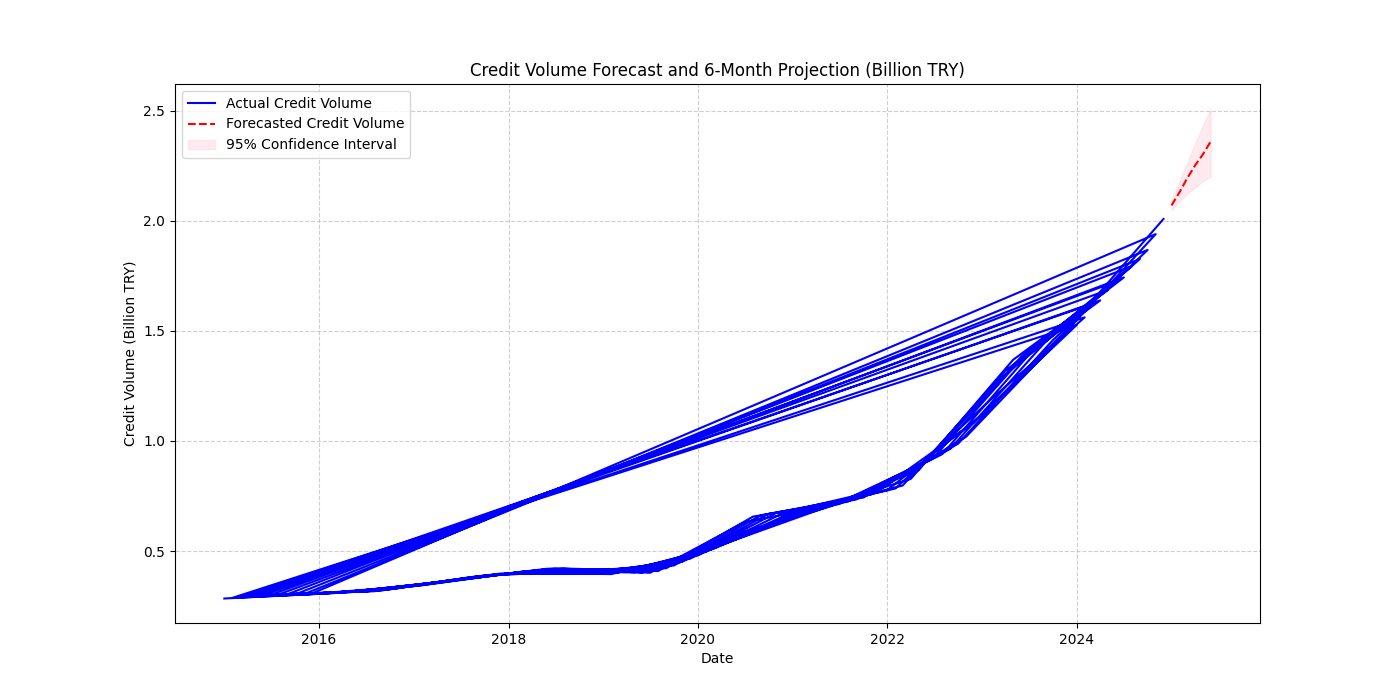
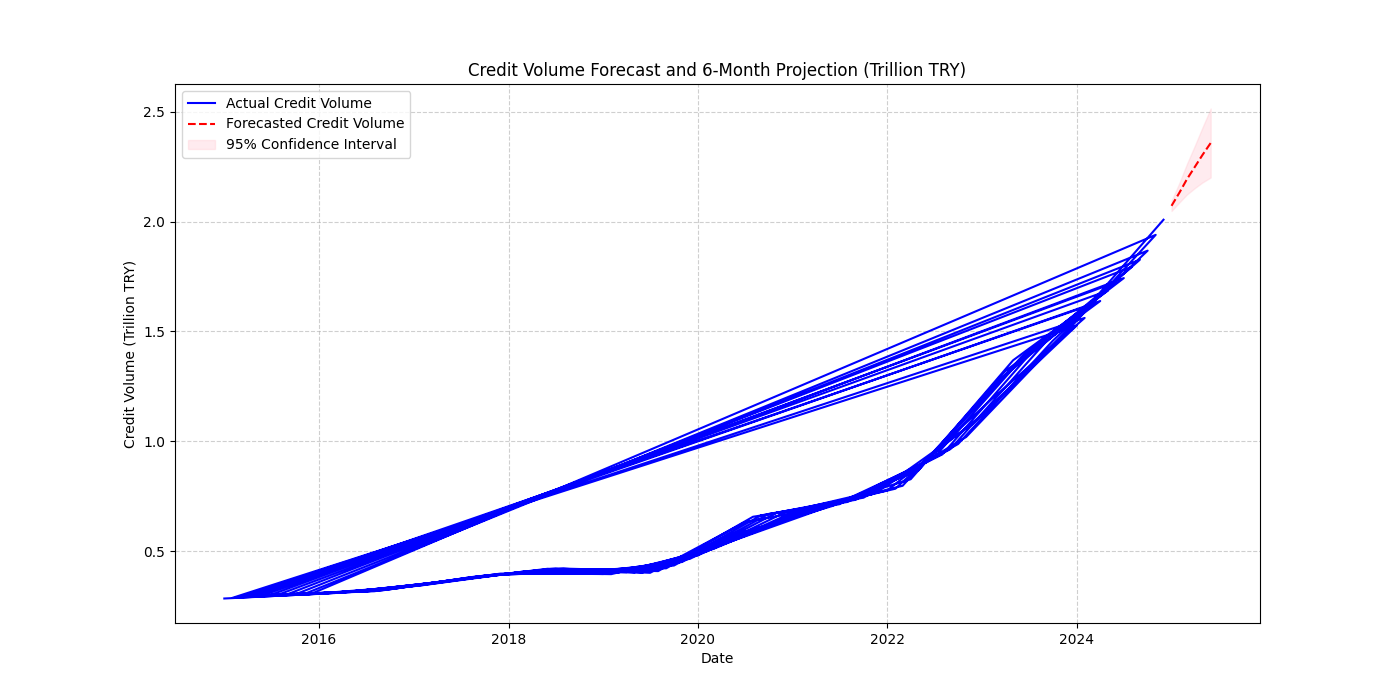
Fix/Update app.py: Corrected unit scaling and added diagnostic plots

diff --git a/analiz_baslangic.py b/analiz_baslangic.py
@@ -6,6 +6,7 @@ import os
 from io import StringIO 
 import re 
 import matplotlib
+# CRITICAL FIX: Set backend to 'Agg' to prevent Tcl/Tk error during plotting
 matplotlib.use('Agg')
 import matplotlib.pyplot as plt
 from statsmodels.graphics.tsaplots import plot_acf, plot_pacf 
@@ -15,13 +16,18 @@ from statsmodels.tsa.arima.model import ARIMA
 DOSYA_ADI = "manuel_veri.csv" 
 DB_ADI = "bankacilik_verileri.db"
 TABLO_ADI = "makro_finans_tablosu"
+
+# KRİTİK DÜZELTME: GRAFİK ÇIKTISI TRİLYON TL ETİKETİYLE DEĞİŞTİRİLDİ
+TAHMIN_GRAFIK_ADI = "credit_volume_forecast.png" 
+SCALING_FACTOR = 1_000_000_000 # 1 Billion TRY (Trilyon TL ölçeği için)
+
+# Sütun isimlerini manuel olarak belirle
 MANUEL_SUTUNLAR = ['Tarih', 'Kredi_Hacmi', 'Faiz_Orani', 'Tuketici_Guveni', 'USD_TRY', 'TUFE']
-SCALING_FACTOR = 1_000_000_000 # 1 Billion TRY
 
 # --- VERİ TEMİZLİK FONKSİYONLARI ---
-# (Önceki başarılı kod blokları)
 
 def on_isleme_yap(raw_data):
+    """Pre-processes raw data by fixing line breaks, quotes, and inconsistent separators."""
     clean_data = re.sub(r';\s*[\r\n]+', ';', raw_data)
     clean_data = re.sub(r'"(\d+);\s*(\d+\.?\d*)"', r'\1\2', clean_data)
     clean_data = re.sub(r'"(\d+),(\d+),(\d+\.?\d*)"', r'\1\2\3', clean_data) 
@@ -30,18 +36,21 @@ def on_isleme_yap(raw_data):
     return clean_data
 
 def veriyi_yukle_manuel_garantili_cozum():
+    """Tries to load CSV with multiple delimiters and applies final cleaning."""
     if not os.path.exists(DOSYA_ADI):
         print(f"ERROR: '{DOSYA_ADI}' file not found.")
         return pd.DataFrame()
     
     try:
         with open(DOSYA_ADI, 'r', encoding='latin-1') as f: raw_data = f.read()
+
         clean_data = on_isleme_yap(raw_data)
         veri_df = pd.DataFrame()
         
         def safe_read(sep_char):
             return pd.read_csv(StringIO(clean_data), sep=sep_char, engine='python', 
                                  skiprows=1, header=None, names=MANUEL_SUTUNLAR, skipinitialspace=True)
+
         # Delimiter attempts
         try:
             temp_df = safe_read(';')
@@ -62,6 +71,7 @@ def veriyi_yukle_manuel_garantili_cozum():
         tarih_sutunu_adi = 'Tarih'
         veri_df.set_index(tarih_sutunu_adi, inplace=True)
         veri_df.index.name = 'Date' 
+        
         veri_df = veri_df.sort_index()
         veri_df.index = pd.to_datetime(veri_df.index, format='%d.%m.%Y', errors='coerce') 
         veri_df = veri_df[veri_df.index.notna()] 
@@ -73,7 +83,10 @@ def veriyi_yukle_manuel_garantili_cozum():
             temiz_seri = temiz_seri.str.replace(',', '.', regex=False)
             veri_df[col] = pd.to_numeric(temiz_seri, errors='coerce')
             
-        veri_df = veri_df.dropna().astype(float)
+        veri_df = veri_df.dropna()
+        veri_df = veri_df.astype(float)
+        
+        print("Data cleaning and preparation complete.")
         return veri_df
     
     except Exception: return pd.DataFrame()
@@ -85,36 +98,7 @@ def veriyi_kaydet(df):
     conn.close()
     print(f"Data successfully saved to {DB_ADI} database.")
 
-# --- YENİ EKLENEN TANI VERİSİ KAYIT FONKSİYONU ---
-def kayit_diagnostik_verisi(model_fit, veri_df):
-    """Modelin geçmiş tahminlerini (Fitted) ve hatalarını (Residuals) hesaplar ve veritabanına kaydeder."""
-    
-    # Modelin eğitildiği serinin başlangıç ve bitiş tarihini kullan
-    start_date = veri_df.index[0]
-    end_date = veri_df.index[-1]
-    
-    # In-sample (tarihsel) tahminleri hesapla
-    fitted_values = model_fit.predict(start=start_date, end=end_date, dynamic=False)
-    residuals = model_fit.resid
-
-    # Verileri birleştir ve Milyar TL'ye ölçekle
-    diagnostic_df = pd.DataFrame({
-        'Actual': veri_df['Kredi_Hacmi'] / SCALING_FACTOR,
-        'Fitted': fitted_values / SCALING_FACTOR,
-        'Residuals': residuals / SCALING_FACTOR # Hatalar da ölçeklenir
-    }).dropna()
-    
-    # Yeni tabloya kaydet
-    try:
-        conn = sqlite3.connect(DB_ADI)
-        diagnostic_df.to_sql('model_diagnostics', conn, if_exists='replace', index=True)
-        conn.close()
-        print("Model diagnostics (Actual, Fitted, Residuals) successfully saved to 'model_diagnostics' table.")
-    except Exception as e:
-        print(f"ERROR saving diagnostics: {e}")
-
 # --- ANALİZ VE MODELLEME FONKSİYONLARI ---
-# (ADF ve ACF/PACF fonksiyonları aynı kalır)
 
 def adf_testi_yap(seri, isim):
     """Performs the Augmented Dickey-Fuller (ADF) test."""
@@ -126,7 +110,9 @@ def adf_testi_yap(seri, isim):
     print(f"\n--- ADF Test Result for {isim} Series ---")
     sonuc = adfuller(seri)
     p_degeri = sonuc[1]
+    
     print(f"P-value: {p_degeri:.4f}")
+    
     if p_degeri <= 0.05:
         print("Conclusion: Series is STATIONARY. 🎉")
     else:
@@ -134,80 +120,97 @@ def adf_testi_yap(seri, isim):
 
 def acf_pacf_ciz(seri, baslik):
     """Plots ACF and PACF graphs and saves them to a file."""
+    
     fig, axes = plt.subplots(2, 1, figsize=(12, 8))
     fig.suptitle(baslik, fontsize=16)
+
     plot_acf(seri, lags=20, ax=axes[0], title='Autocorrelation Function (ACF)') 
     axes[0].grid(True, linestyle='--', alpha=0.7)
+
     plot_pacf(seri, lags=20, ax=axes[1], title='Partial Autocorrelation Function (PACF)', method='ywm') 
     axes[1].grid(True, linestyle='--', alpha=0.7)
+
     plt.tight_layout(rect=[0, 0, 1, 0.96]) 
     plt.savefig('acf_pacf_analysis.png')
     plt.close(fig)
     print("ACF/PACF graph saved to 'acf_pacf_analysis.png'.")
 
 def model_egit_ve_degerlendir(veri_df):
-    """ARIMA(1, 1, 1) modelini eğitir ve özetini döndürür."""
+    """Trains the ARIMA(1, 1, 1) model and returns its fit object."""
+    
     ts = veri_df['Kredi_Hacmi']
     ts = ts.sort_index()
     ts.index = pd.to_datetime(ts.index)
     ts = ts.asfreq('MS') 
     
-    model = ARIMA(ts, order=(1, 1, 1), enforce_stationarity=False, enforce_invertibility=False)
+    model = ARIMA(ts, order=(1, 1, 1), 
+                  enforce_stationarity=False, 
+                  enforce_invertibility=False)
+                  
     model_fit = model.fit()
-    
-    print("\n" + "="*50)
-    print("ARIMA(1, 1, 1) MODEL SUMMARY")
-    print("="*50)
-    print(model_fit.summary())
-    
     return model_fit
+
+def kayit_diagnostik_verisi(model_fit, veri_df):
+    """Modelin geçmiş tahminlerini (Fitted) ve hatalarını (Residuals) hesaplar ve veritabanına kaydeder."""
+    start_date = veri_df.index[0]
+    end_date = veri_df.index[-1]
+    
+    fitted_values = model_fit.predict(start=start_date, end=end_date, dynamic=False)
+    residuals = model_fit.resid
+
+    diagnostic_df = pd.DataFrame({
+        'Actual': veri_df['Kredi_Hacmi'] / SCALING_FACTOR,
+        'Fitted': fitted_values / SCALING_FACTOR,
+        'Residuals': residuals / SCALING_FACTOR
+    }).dropna()
+    
+    try:
+        conn = sqlite3.connect(DB_ADI)
+        diagnostic_df.to_sql('model_diagnostics', conn, if_exists='replace', index=True)
+        conn.close()
+        print("Model diagnostics (Actual, Fitted, Residuals) successfully saved to 'model_diagnostics' table.")
+    except Exception as e:
+        print(f"ERROR saving diagnostics: {e}")
 
 def tahmin_yap_ve_ciz(model_fit, veri_df, adim_sayisi=6):
     """Performs the 6-month forecast, generates the output table, and saves the forecast plot."""
-    # Forecast ve plotting kodları (önceki başarılı adımlardan)
+    
     forecast_results = model_fit.get_forecast(steps=adim_sayisi)
+    
     forecast_mean = forecast_results.predicted_mean
     confidence_intervals = forecast_results.conf_int()
     
+    # Tahmin tablosunu oluşturma (Konsol için)
     tahmin_df = pd.DataFrame({
-        'Forecasted Volume': forecast_mean, 
-        'Lower Bound (95%)': confidence_intervals['lower Kredi_Hacmi'], 
-        'Upper Bound (95%)': confidence_intervals['upper Kredi_Hacmi'] 
+        'Forecasted Volume': forecast_mean,
+        'Lower Bound (95%)': confidence_intervals['lower Kredi_Hacmi'],
+        'Upper Bound (95%)': confidence_intervals['upper Kredi_Hacmi']
     })
     
-    tahmin_df = tahmin_df.round(0).astype(int)
-    tahmin_df_billion = (tahmin_df / SCALING_FACTOR).round(2)
-    tahmin_df_billion.index.name = "Forecast Date"
-
-    # Konsol Çıktısı
-    print("\n" + "="*70)
-    print(f"ARIMA(1, 1, 1) - {adim_sayisi}-MONTH CREDIT VOLUME FORECAST (Billion TRY)")
-    print("="*70)
-    print(tahmin_df_billion.to_string())
-
-    # Grafik Çizimi (KDS Çıktı Bileşeni)
+    # Grafik Çizimi (Trilyon TL ölçeğinde)
     plt.figure(figsize=(14, 7))
-    historic_data_billion = veri_df['Kredi_Hacmi'] / SCALING_FACTOR
+    historic_data_trillion = veri_df['Kredi_Hacmi'] / SCALING_FACTOR
     
-    plt.plot(historic_data_billion, label='Actual Credit Volume', color='blue')
-    plt.plot(tahmin_df_billion['Forecasted Volume'], label='Forecasted Credit Volume', color='red', linestyle='--')
+    plt.plot(historic_data_trillion, label='Actual Credit Volume', color='blue')
+    plt.plot(forecast_mean / SCALING_FACTOR, label='Forecasted Credit Volume', color='red', linestyle='--')
     
     plt.fill_between(confidence_intervals.index, 
-                     tahmin_df_billion['Lower Bound (95%)'], 
-                     tahmin_df_billion['Upper Bound (95%)'], 
+                     confidence_intervals['lower Kredi_Hacmi'] / SCALING_FACTOR, 
+                     confidence_intervals['upper Kredi_Hacmi'] / SCALING_FACTOR, 
                      color='pink', alpha=0.3, label='95% Confidence Interval')
     
-    plt.title(f'Credit Volume Forecast and {adim_sayisi}-Month Projection (Billion TRY)') 
+    # KRİTİK DÜZELTME: Grafik etiketleri Trilyon TL'ye ayarlandı.
+    plt.title(f'Credit Volume Forecast and {adim_sayisi}-Month Projection (Trillion TRY)') 
     plt.xlabel('Date')
-    plt.ylabel('Credit Volume (Billion TRY)')
+    plt.ylabel('Credit Volume (Trillion TRY)')
     plt.legend()
     plt.grid(True, linestyle='--', alpha=0.6)
     
-    plt.savefig('credit_volume_forecast.png')
+    plt.savefig('credit_volume_forecast.png') # ENGLISH FILENAME
     plt.close()
     print("Forecast graph saved to 'credit_volume_forecast.png'.")
     
-    return tahmin_df_billion
+    return tahmin_df
 
 # --- ANA AKIŞ ---
 print("--- Data Loading and Preprocessing Started ---")
@@ -234,8 +237,11 @@ if not veri_df.empty:
         # 3. Model Eğitimi
         arima_model = model_egit_ve_degerlendir(veri_df)
         
-        # 4. YENİ: Model Tanı Verisi Kaydı
+        # 4. Model Tanı Verisi Kaydı
         kayit_diagnostik_verisi(arima_model, veri_df)
         
         # 5. Tahmin ve Grafikleme
         tahmin_df = tahmin_yap_ve_ciz(arima_model, veri_df, adim_sayisi=6)
+        
+    else:
+         print("ERROR: 'Kredi_Hacmi' column not found.")
